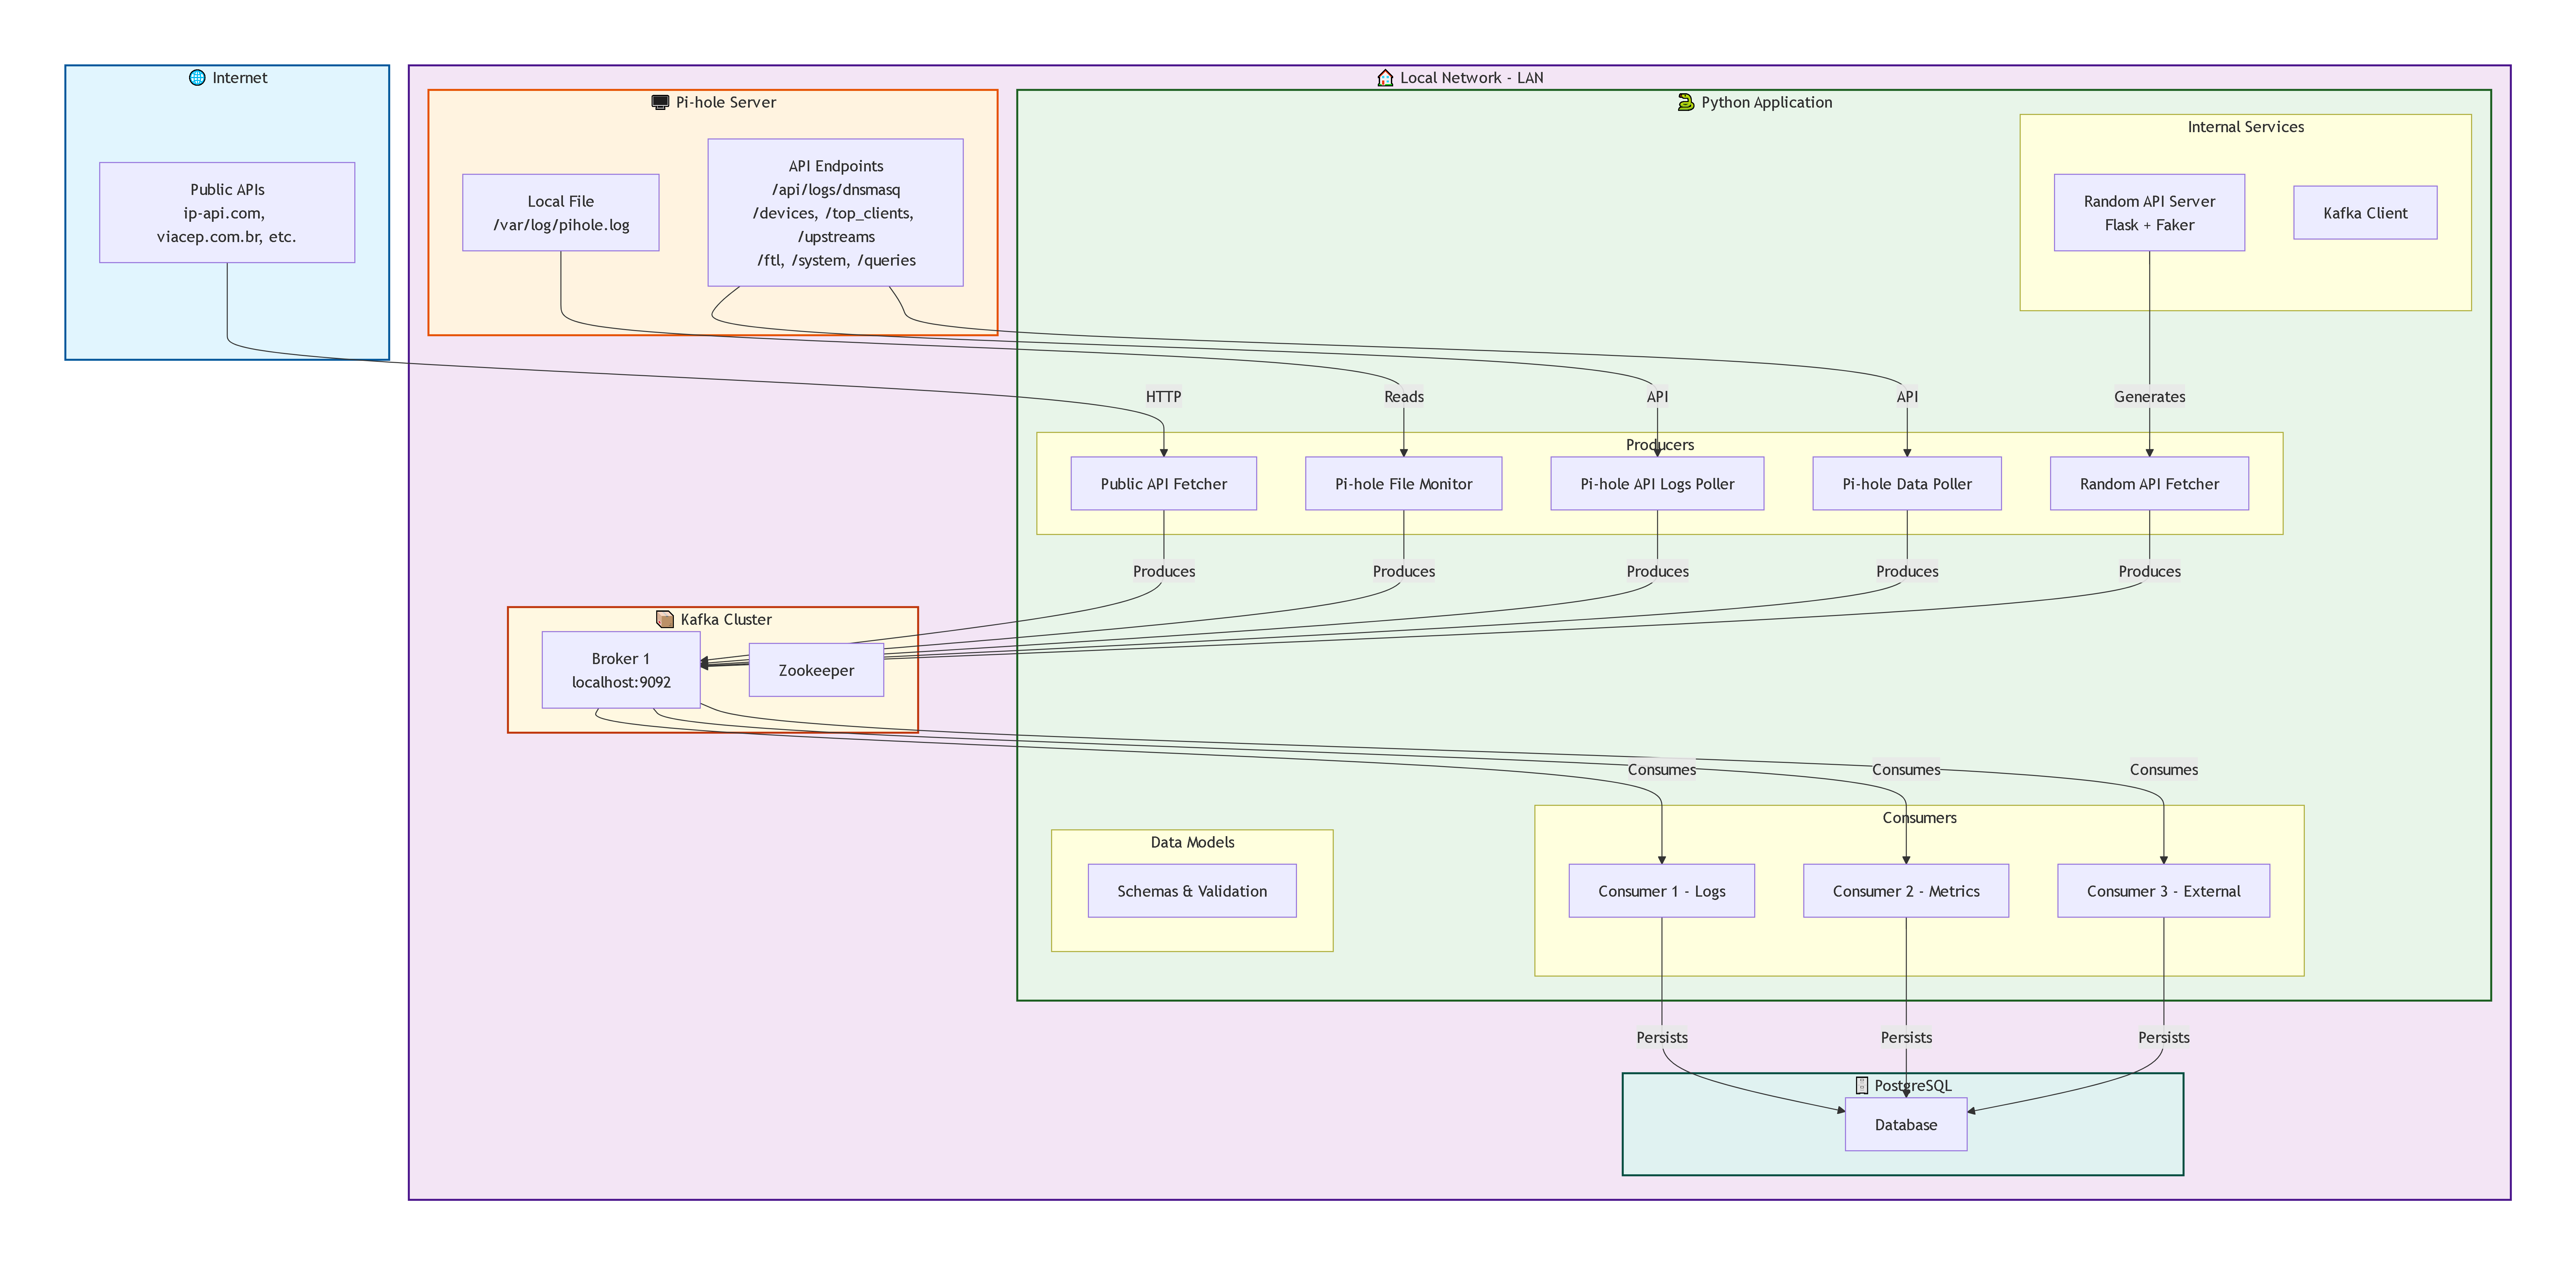
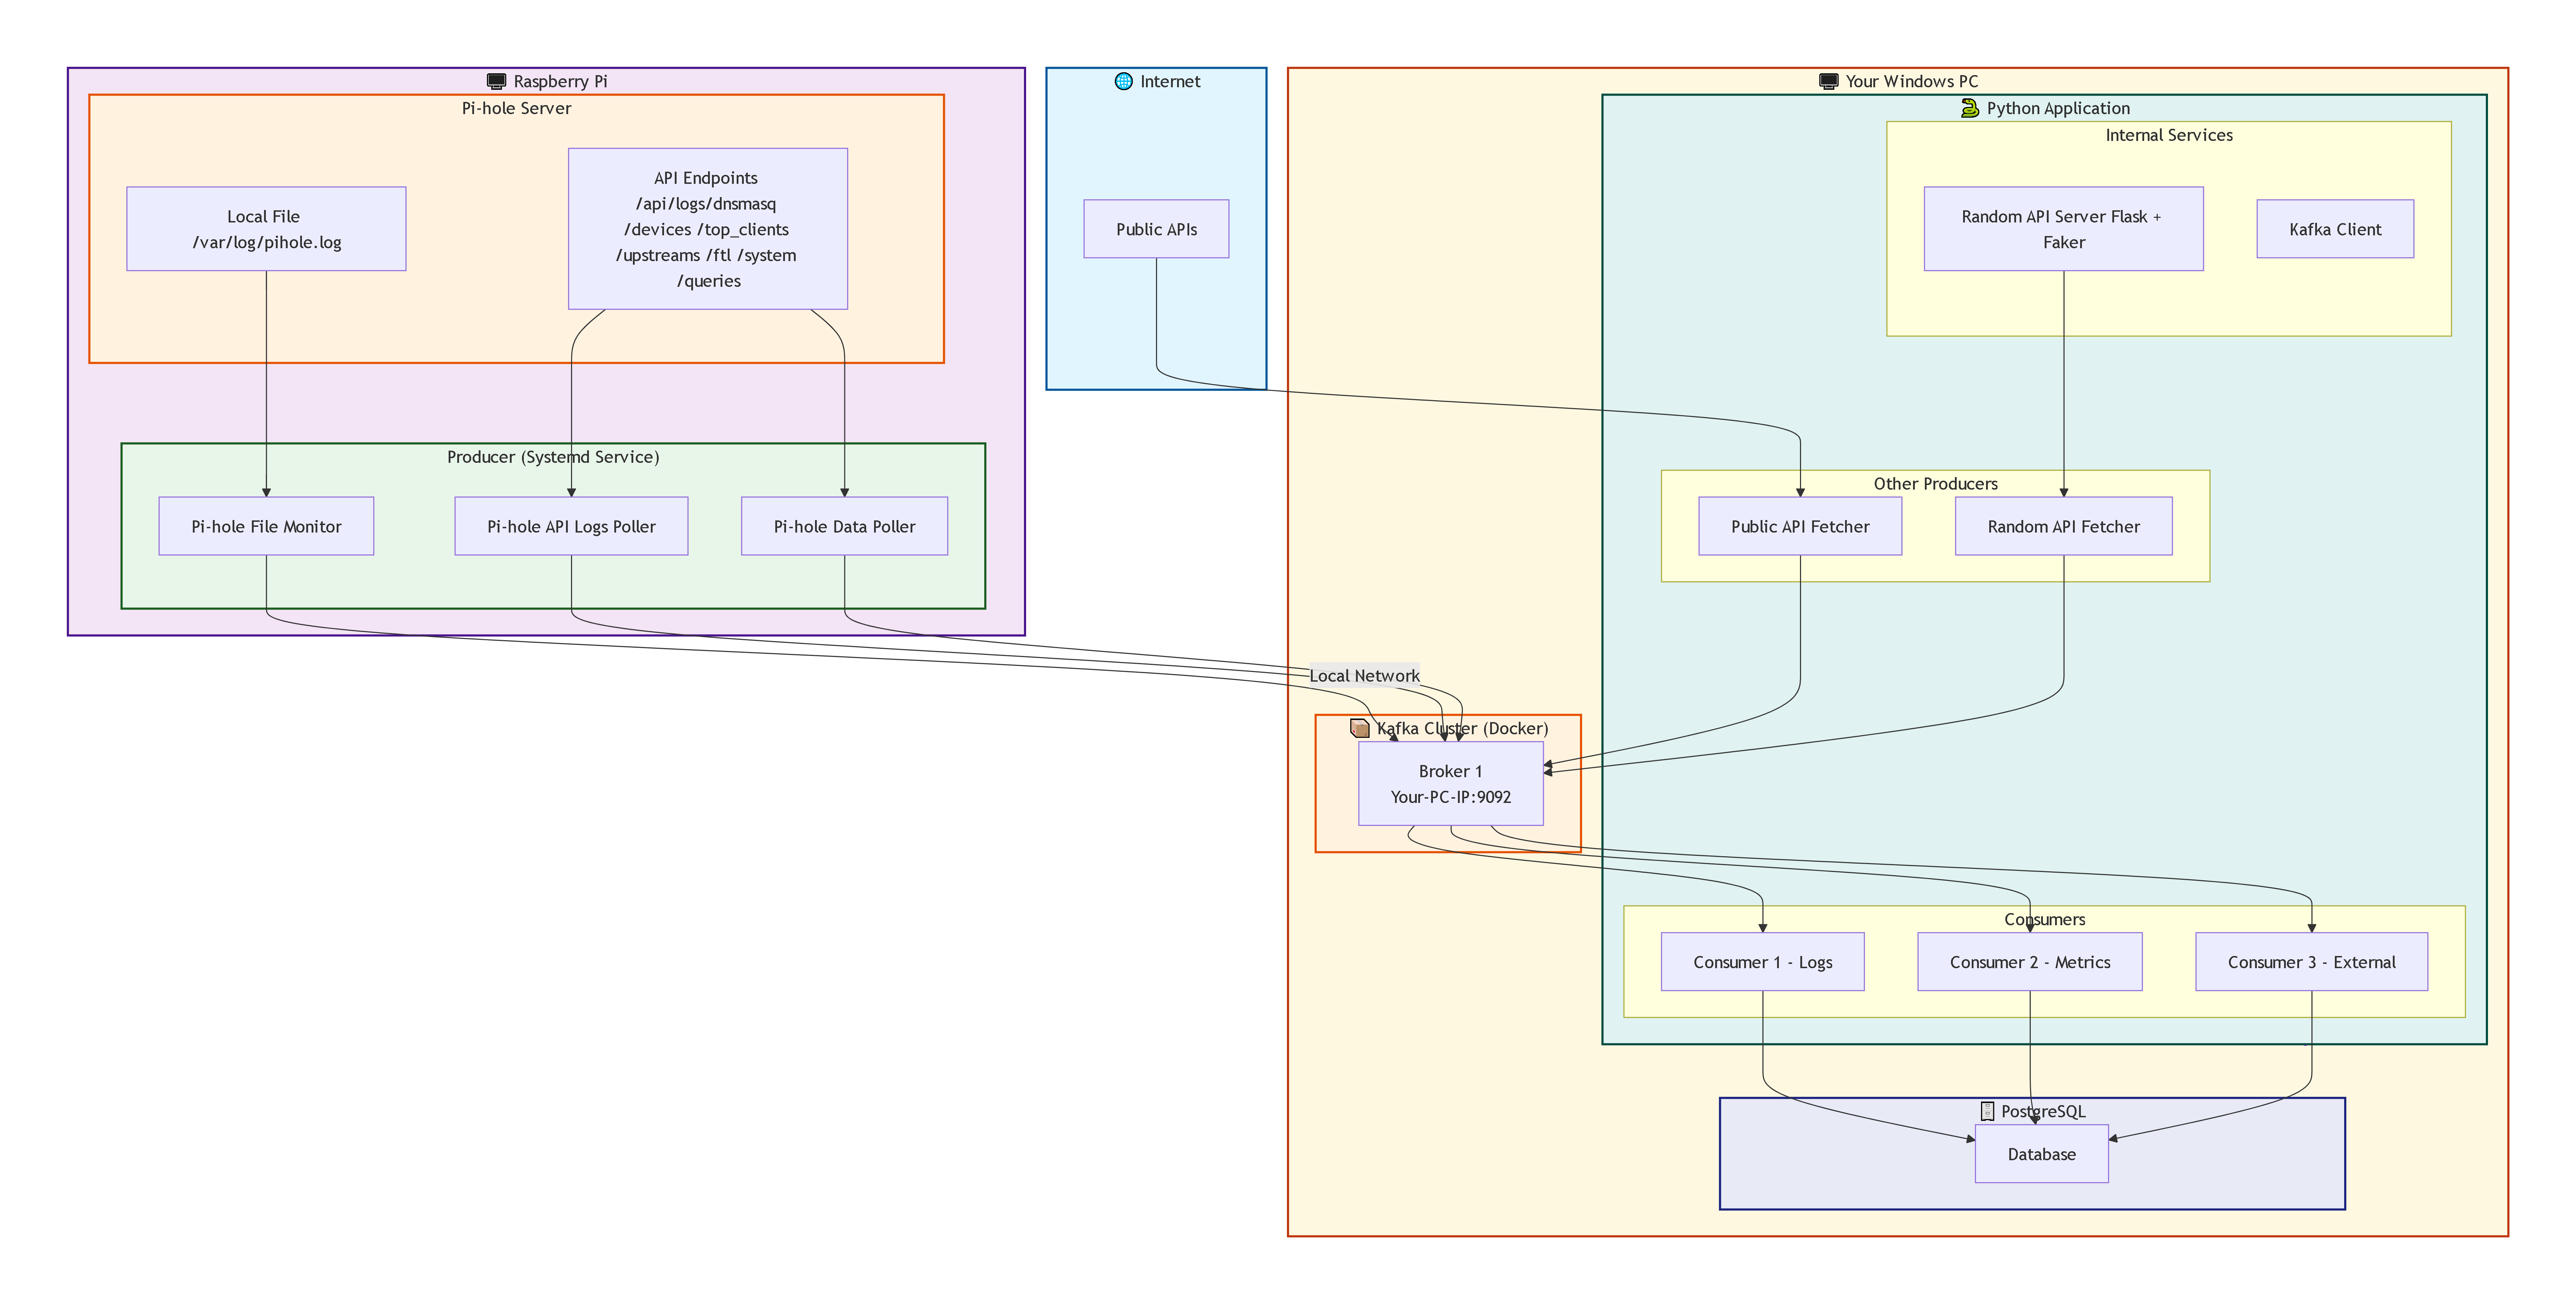
Updating README and diagrams to the current progress.

diff --git a/README.md b/README.md
@@ -29,7 +29,7 @@
 
 | Source | Description |
 |--------|-------------|
-| **Pi-hole (local)** | Tails `/var/log/pihole/pihole.log` |
+| **Pi-hole (local)** | Tails `/var/log/pihole/pihole.log` from a **systemd service on a Raspberry Pi** |
 | **Pi-hole (API logs)** | Polls `/api/logs/dnsmasq` |
 | **Pi-hole (API)** | Fetches `/devices`, `/top_clients`, `/upstreams`, `/ftl`, `/system`, `/queries` |
 | **Public APIs** | External data from multiple free test APIs |
@@ -47,23 +47,24 @@ From there, **three independent consumers** subscribe to these topics and proces
 
 ![Architecture Diagram](mermaid-diagrams/architecture.png)
 
-**Legend:**
+## 🎨 **Legend**
 
 | Color | Component | Description |
 |-------|-----------|-------------|
-| 🔵 Light Blue | 🌐 Internet | External public APIs (HTTP access) |
-| 🟣 Light Purple | 🏠 Local Network | Internal local network environment |
-| 🟡 Light Orange | 🖥️ Pi-hole Server | Pi-hole server with local logs and API |
-| 🟢 Light Green | 🐍 Python Application | Python code with producers, consumers, and services |
-| 🟡 Light Yellow | 📦 Kafka Cluster | Kafka cluster for event streaming |
-| 🟢 Teal | 🗄️ PostgreSQL | Database for persistence |
-
+| 🔵 Light Blue | 🌐 Internet | External public APIs |
+| 🟣 Light Purple | 🖥️ Raspberry Pi | Raspberry Pi running the producer service |
+| 🟡 Light Orange | Pi-hole Server | Pi-hole server with local logs and API |
+| 🟢 Light Green | Producer Service | Systemd service running the Pi-hole log producer |
+| 🟡 Light Yellow | 🖥️ Your Windows PC | Your local computer (Kafka, consumers, other services) |
+| 🟢 Teal | 🐍 Python Application | Python code with consumers and services |
+| 🟠 Orange | 📦 Kafka Cluster | Kafka cluster running in Docker |
+| 🔵 Dark Blue | 🗄️ PostgreSQL | Database for persistence |
 
 ---
 
 ## 📁 **Project Structure**
 
-![Project Structure](mermaid-diagrams/project_structure_readme_friendly.png)
+![Project Structure](mermaid-diagrams/project_structure.png)
 
 ### 🗂️ Directory Tree
 
@@ -76,13 +77,12 @@ kafka-n-apis/
 ├── .gitignore                            # Files ignored by Git
 ├── Makefile                              # Useful commands (optional)
 │
-├── src/                                  # Main source code
+├── src/                                  # Main source code (Windows)
 │   ├── __init__.py
 │   │
 │   ├── producers/                        # Producers (send data to Kafka)
 │   │   ├── __init__.py
 │   │   ├── base_producer.py              # Base class for producers
-│   │   ├── pi_hole_file_monitor.py       # Tailing pihole.log → Kafka
 │   │   ├── pi_hole_api_logs_poller.py    # Fetching /api/logs/dnsmasq → Kafka
 │   │   ├── pi_hole_data_poller.py        # Fetching /devices, /top_clients, /upstreams, etc.
 │   │   ├── public_api_fetcher.py         # Public APIs → Kafka
@@ -136,25 +136,35 @@ kafka-n-apis/
 │   └── logs/                             # Project-generated logs
 │
 └── mermaid-diagrams/                     # Project Mermaid diagrams
-```
 
+### 🗂️ Raspberry Pi Directory
+
+On your Raspberry Pi, the producer service is located at:
+
+```
+/home/pi/kafka-pihole-producer/
+├── .env                                  # Environment variables
+├── config.py                             # Configuration loader
+├── producer.py                           # Pi-hole log producer script
+├── venv/                                 # Python virtual environment
+└── /etc/systemd/system/kafka-pihole-producer.service  # Systemd service file
+```
 
 ---
 
 ## 📄 **Main Files Breakdown**
 
-### **Producers (src/producers/)**
+### **Producers (src/producers/ - Windows)**
 
 | File | Description |
 |------|-------------|
 | `base_producer.py` | Abstract class with common methods (Kafka connection, message sending, error handling) |
-| `pi_hole_file_monitor.py` | Monitors `/var/log/pihole/pihole.log` using `file_watcher.py` and sends lines to topic `pi-hole.logs.file` |
 | `pi_hole_api_logs_poller.py` | Polls the `/api/logs/dnsmasq` endpoint every N seconds and sends to `pi-hole.logs.api` |
 | `pi_hole_data_poller.py` | Queries endpoints `/devices`, `/top_clients`, `/upstreams`, `/ftl`, `/system`, `/queries` and sends to `pi-hole.data.endpoints` |
 | `public_api_fetcher.py` | Makes requests to public APIs (ip-api, viacep, etc.) and sends to `public.api.data` |
 | `random_api_fetcher.py` | Queries `http://localhost:5000/random` and sends to `random.data.raw` |
 
-### **Consumers (src/consumers/)**
+### **Consumers (src/consumers/ - Windows)**
 
 | File | Description |
 |------|-------------|
@@ -163,7 +173,7 @@ kafka-n-apis/
 | `consumer_2_metrics.py` | Subscribes to topic `pi-hole.data.endpoints` and processes metrics (devices, top clients, upstreams, FTL, system, queries) |
 | `consumer_3_external.py` | Subscribes to topics `public.api.data` and `random.data.raw` and processes external data |
 
-### **Services (src/services/)**
+### **Services (src/services/ - Windows)**
 
 | File | Description |
 |------|-------------|
@@ -171,7 +181,7 @@ kafka-n-apis/
 | `random_api_server.py` | Flask server that generates random data at `/random` |
 | `kafka_client.py` | Encapsulates Kafka connection (production and consumption) |
 
-### **Models (src/models/)**
+### **Models (src/models/ - Windows)**
 
 | File | Description |
 |------|-------------|
@@ -180,14 +190,14 @@ kafka-n-apis/
 | `public_api_data.py` | Schema for public API data (geolocation, etc.) |
 | `random_data.py` | Schema for random data (id, value, category, timestamp) |
 
-### **Configuration (src/config/)**
+### **Configuration (src/config/ - Windows)**
 
 | File | Description |
 |------|-------------|
 | `settings.py` | Loads `.env` variables using `python-dotenv` |
 | `topics.py` | Defines constants with topic names |
 
-### **Utilities (src/utils/)**
+### **Utilities (src/utils/ - Windows)**
 
 | File | Description |
 |------|-------------|
@@ -195,7 +205,7 @@ kafka-n-apis/
 | `file_watcher.py` | Monitors files in real-time (tail -f) |
 | `timestamp.py` | Functions for timestamp manipulation (formatting, conversion) |
 
-### **Scripts (scripts/)**
+### **Scripts (scripts/ - Windows)**
 
 | File | Description |
 |------|-------------|
@@ -205,12 +215,11 @@ kafka-n-apis/
 
 ---
 
-
 ## ✨ Features
 
 | Category | Feature |
 |----------|---------|
-| **Pi-hole Integration** | ✅ DNS logs via local file (real-time) |
+| **Pi-hole Integration** | ✅ DNS logs via local file (real-time) from a **Raspberry Pi systemd service** |
 |  | ✅ DNS logs via API (remote access) |
 |  | ✅ Metrics: devices, top clients, upstreams, FTL, system, queries |
 | **External APIs** | ✅ Multiple public APIs fetched as Kafka events |
@@ -228,7 +237,7 @@ kafka-n-apis/
 | Layer          | Technology |
 |----------------|------------|
 | **Messaging**  | [Apache Kafka](https://kafka.apache.org/) |
-| **Producers**  | [Python](https://www.python.org/) + [`kafka-python`](https://kafka-python.readthedocs.io/) |
+| **Producers**  | [Python](https://www.python.org/) + [`kafka-python`](https://kafka-python.readthedocs.io/) (Raspberry Pi + Windows) |
 | **Consumers**  | Python microservices |
 | **HTTP**       | [`requests`](https://docs.python-requests.org/) |
 | **APIs**       | [Pi-hole](https://pi-hole.net/), [ip-api.com](https://ip-api.com/), [viacep.com.br](https://viacep.com.br/), Localhost Random API |
@@ -247,6 +256,7 @@ kafka-n-apis/
 - Python 3.10+
 - Docker & Docker Compose
 - Pi-hole instance accessible on your network
+- A Raspberry Pi (optional, if running the local log producer remotely)
 
 ### 1. Clone the repository
 
@@ -261,7 +271,7 @@ cd kafka-n-apis
 docker-compose up -d
 ```
 
-> Uses `bitnami/kafka` and `bitnami/zookeeper`. Brokers available at `localhost:9092`.
+> Uses `apache/kafka:latest` (KRaft mode). Brokers available at `localhost:9092`.
 
 **Verify Kafka is running:**
 
@@ -271,7 +281,7 @@ docker ps | grep kafka
 
 **Expected output:**
 ```
-<container_id>   bitnami/kafka:latest   "/opt/bitnami/script…"   Up  0.0.0.0:9092->9092/tcp
+<container_id>   apache/kafka:latest   "/opt/kafka/bin/kafka…"   Up  0.0.0.0:9092->9092/tcp
 ```
 
 ### 3. Install Python dependencies
@@ -288,7 +298,26 @@ cp .env.example .env
 
 Edit `.env` with your Pi-hole URL, API tokens, and Kafka bootstrap.
 
-### 5. Run the localhost random API (separate terminal)
+### 5. Configure the Raspberry Pi producer (if using local logs)
+
+**On your Raspberry Pi:**
+
+```bash
+cd /home/pi/kafka-pihole-producer
+cp .env.example .env
+# Edit .env with your Windows PC IP address for KAFKA_BOOTSTRAP
+
+# Create and activate virtual environment
+python3 -m venv venv
+source venv/bin/activate
+pip install kafka-python python-dotenv
+
+# Enable and start the systemd service
+sudo systemctl enable kafka-pihole-producer
+sudo systemctl start kafka-pihole-producer
+```
+
+### 6. Run the localhost random API (separate terminal on Windows)
 
 ```bash
 python -m src.services.random_api_server
@@ -296,7 +325,7 @@ python -m src.services.random_api_server
 
 > Runs a Flask server at `http://localhost:5000/random` powered by `Faker`.
 
-### 6. Run the consumers (three separate terminals)
+### 7. Run the consumers (three separate terminals on Windows)
 
 **Consumer 1 (DNS logs):**
 ```bash
@@ -311,12 +340,6 @@ python -m src.consumers.consumer_2_metrics
 **Consumer 3 (External and synthetic data):**
 ```bash
 python -m src.consumers.consumer_3_external
-```
-
-### 7. Verify consumers are running (optional)
-
-```bash
-ps aux | grep consumer
 ```
 
 ---
@@ -334,7 +357,7 @@ docker exec -it kafka bash
 **Produce a test message:**
 
 ```bash
-echo "test" | kafka-console-producer --broker-list localhost:9092 --topic test
+echo "test" | kafka-console-producer --bootstrap-server localhost:9092 --topic test
 ```
 
 **Consume the test message:**
@@ -395,7 +418,7 @@ python -m src.consumers.consumer_3_external
 | `PIHOLE_API_TOKEN`    | Pi-hole API token               | —                 |
 | `PIHOLE_LOG_PATH`     | Path to local pihole.log        | `/var/log/pihole/pihole.log` |
 | `RANDOM_API_URL`      | Localhost random API URL        | `http://localhost:5000/random` |
-
+| `KAFKA_BOOTSTRAP_RPI` | Kafka bootstrap for Raspberry Pi | `YOUR_WINDOWS_IP:9092` |
 
 ---
 